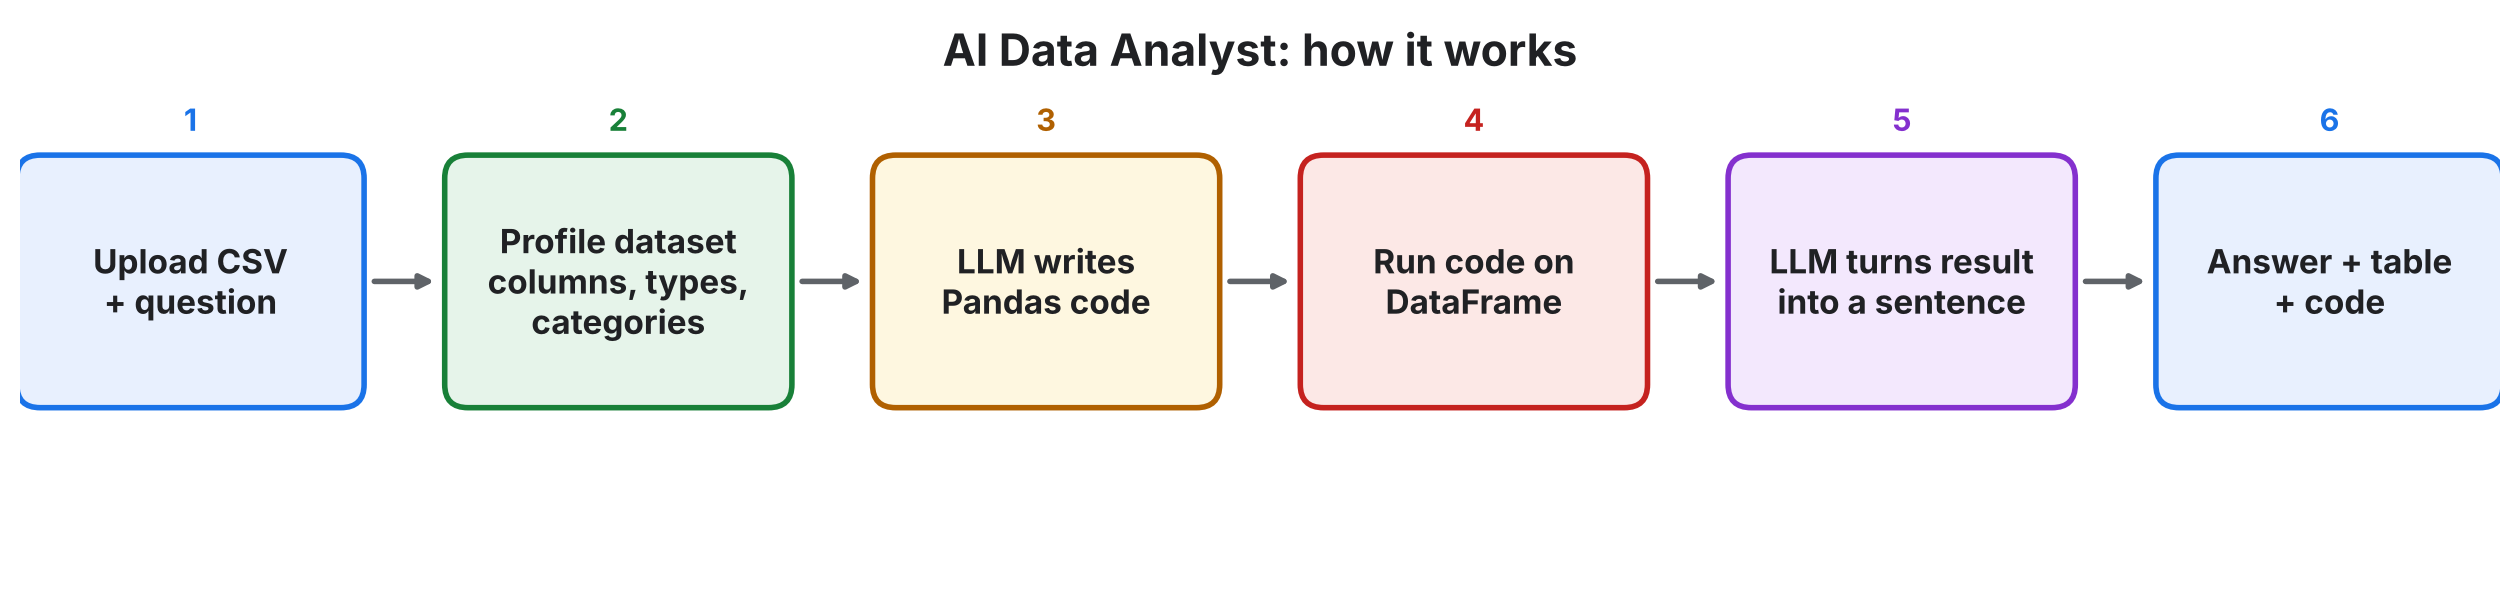
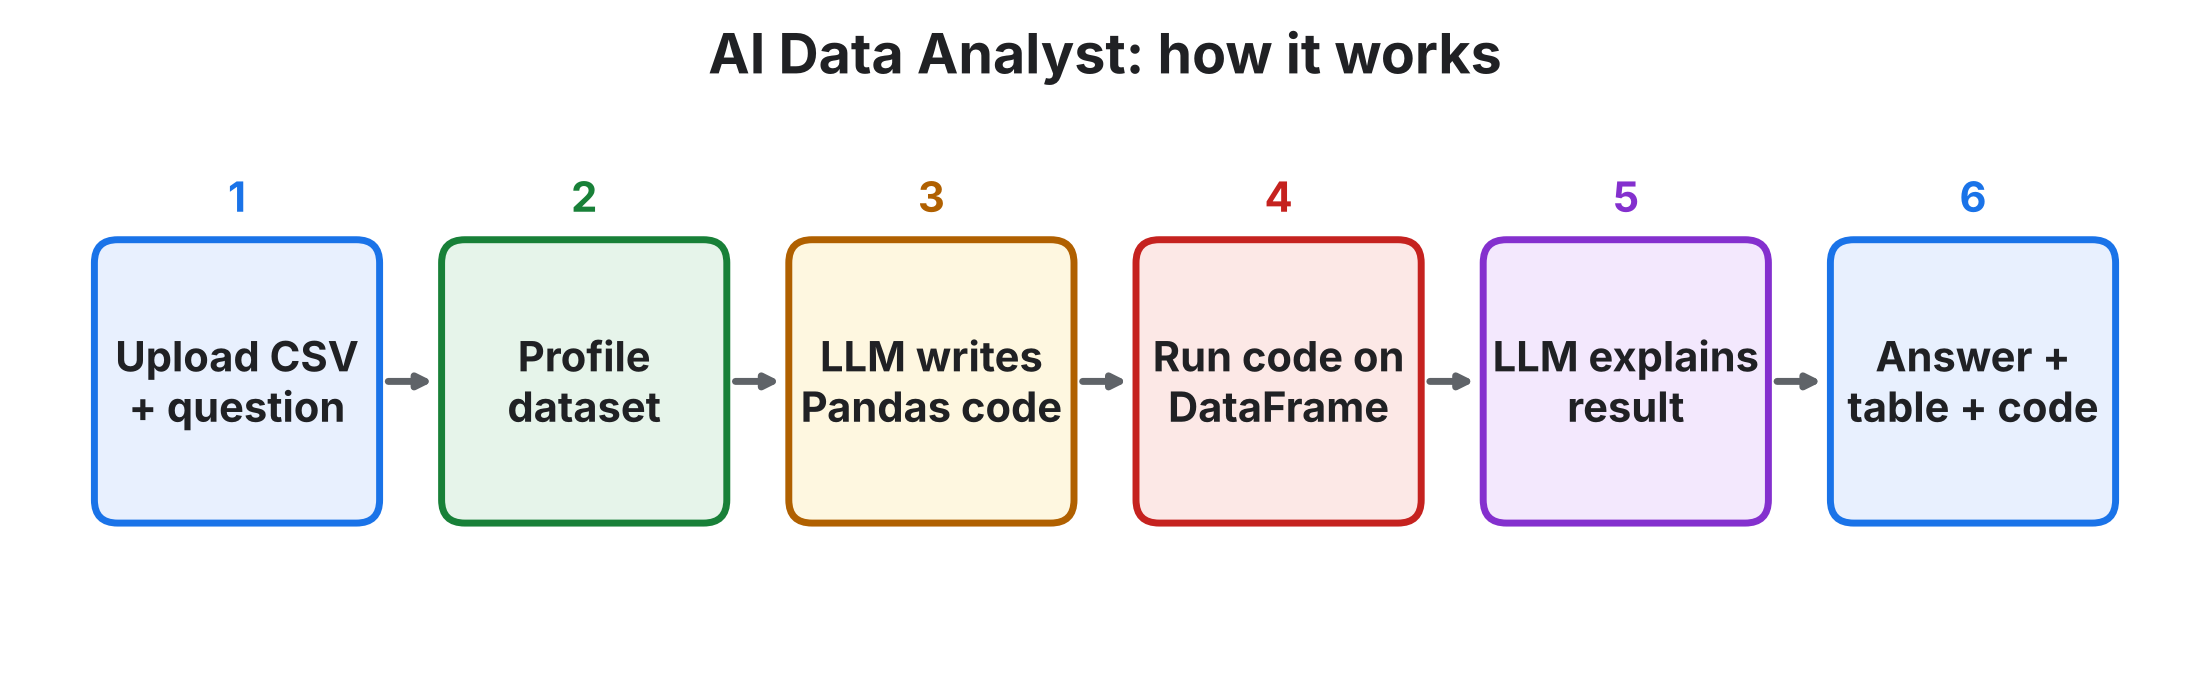
Remove top diagram from README, sharpen flow image, rename diagram file to how-it-work.png
Claude-Session: https://claude.ai/code/session_019MpchGKBNQUTtX4GH4ti7i

diff --git a/README.md b/README.md
@@ -36,10 +36,6 @@ The app answers in a friendly sentence, shows the **raw result table**, and reve
 ## 🧩 How it works
 
 <p align="center">
-  <img src="how-it-works.png" alt="How AI Data Analyst works" width="80%">
-</p>
-
-<p align="center">
   <img src="how-it-works-flow.png" alt="AI Data Analyst flow" width="100%">
 </p>
 
